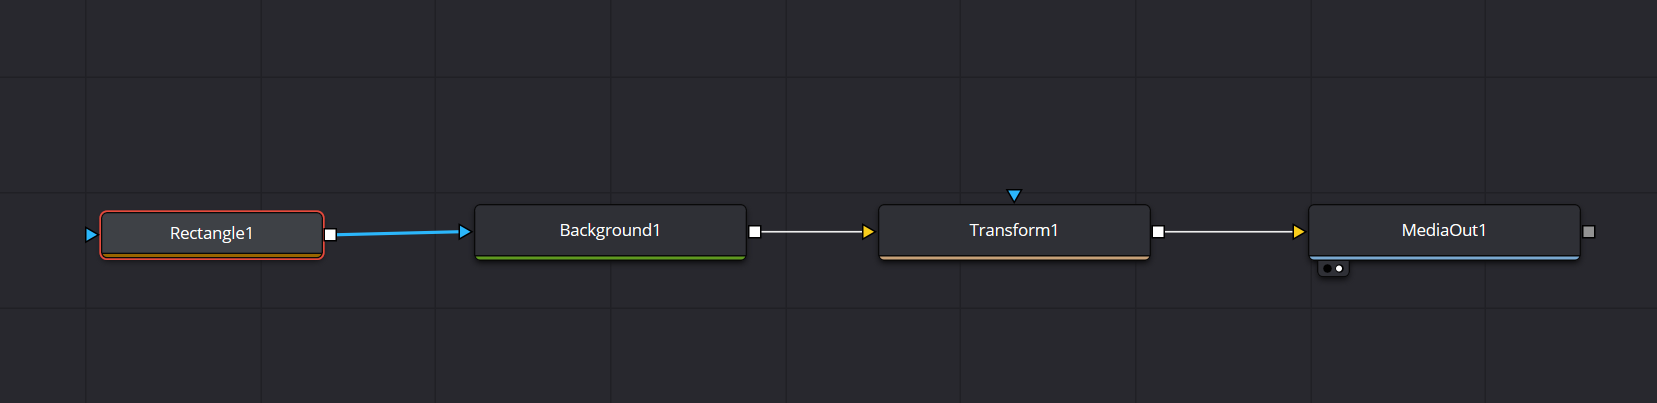
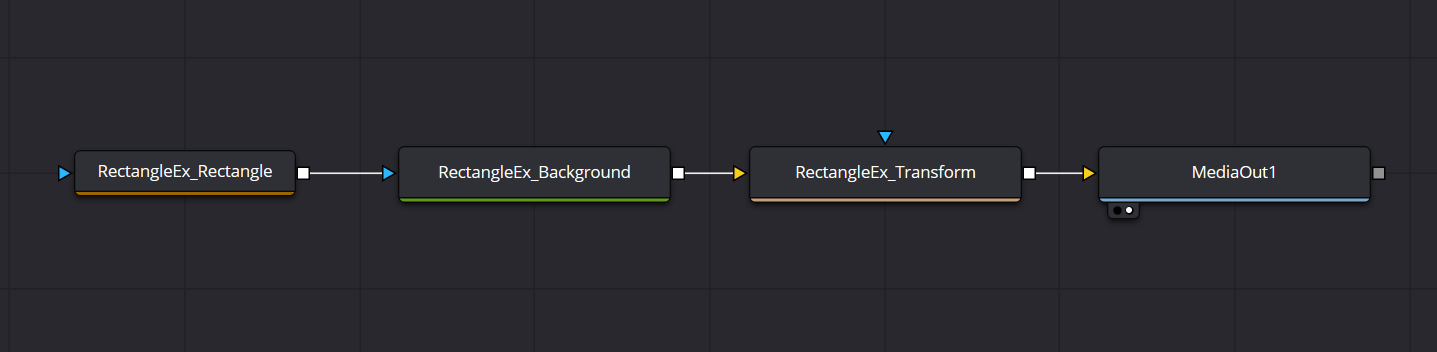
Changed node names

diff --git a/RectangleEx/RectangleEx.md b/RectangleEx/RectangleEx.md
@@ -12,12 +12,14 @@ RectangleExの構成は以下の通り
 * 移動用のTransformノード
 
 ![Flow](flow.png)
-※ `Rectangle1`, `Transform1`は[スクリプト内](#execute-script)で参照しているため名前変更不可
+
+* 既存のノードと重複しないようにRectangleExのプリフィックスをつける
+* `RectangleEx_Rectangle`, `RectangleEx_Transform`は[スクリプト内](#execute-script)で参照しているため名前変更不可
 
 
 ## Area Control
 
-左上、右下をそれぞれ`Left Top`, `Right Bottom`として[Rectangle1](#flow)へコントロールを追加し  
+左上、右下をそれぞれ`Left Top`, `Right Bottom`として[RectangleEx_Rectangle](#flow)へコントロールを追加し  
 それを使用して四角形の位置・サイズ調整を行う
 
 ### Left Top
@@ -51,7 +53,7 @@ RectangleExの構成は以下の通り
 
 ## Calculated Parameters
 
-[Rectangle1](#flow)の下記パラメータはExpressionに設定し、  
+[RectangleEx_Rectangle](#flow)の下記パラメータはExpressionに設定し、  
 `Left Top`, `Right Bottom`から計算で求める
 
 ### Width
@@ -84,7 +86,7 @@ Point(LeftTop.X + ((RightBottom.X - LeftTop.X) / 2), RightBottom.Y + ((LeftTop.Y
 
 ## Centering Button
 
-[Transform1](#flow)を使用して位置を移動した場合  
+[RectangleEx_Transform](#flow)を使用して位置を移動した場合  
 `Left Top`, `Right Bottom`での制御位置とずれが生じてしまう   
 それを解消するためのボタンを用意する
 
@@ -111,27 +113,27 @@ Point(LeftTop.X + ((RightBottom.X - LeftTop.X) / 2), RightBottom.Y + ((LeftTop.Y
 
 ### Execute Script
 
-[Transform1](#flow)での移動量を[Rectangle](#flow)に加算した上で、  
-[Transform1](#flow)での移動量を0に戻すことにより、移動位置を維持したまま  
+[RectangleEx_Transform](#flow)での移動量を[Rectangle](#flow)に加算した上で、  
+[RectangleEx_Transform](#flow)での移動量を0に戻すことにより、移動位置を維持したまま  
 `Left Top`, `Right Bottom`の制御位置ずれを解消する
 
 ```lua
 comp:Lock()
 
-local centerOffsetX = (Transform1.Center[1][1] - 0.5)
-local centerOffsetY = (Transform1.Center[1][2] - 0.5)
+local centerOffsetX = (RectangleEx_Transform.Center[1][1] - 0.5)
+local centerOffsetY = (RectangleEx_Transform.Center[1][2] - 0.5)
 
-RectAngle1.LeftTop = {
-    RectAngle1.LeftTop[1][1] + centerOffsetX,
-    RectAngle1.LeftTop[1][2] + centerOffsetY,
+RectangleEx_Rectangle.LeftTop = {
+    RectangleEx_Rectangle.LeftTop[1][1] + centerOffsetX,
+    RectangleEx_Rectangle.LeftTop[1][2] + centerOffsetY,
 }
 
-RectAngle1.RightBottom = {
-    RectAngle1.RightBottom[1][1] + centerOffsetX,
-    RectAngle1.RightBottom[1][2] + centerOffsetY,
+RectangleEx_Rectangle.RightBottom = {
+    RectangleEx_Rectangle.RightBottom[1][1] + centerOffsetX,
+    RectangleEx_Rectangle.RightBottom[1][2] + centerOffsetY,
 }
 
-Transform1.Center = {0.5, 0.5}
+RectangleEx_Transform.Center = {0.5, 0.5}
 
 comp:Unlock()
 ```
